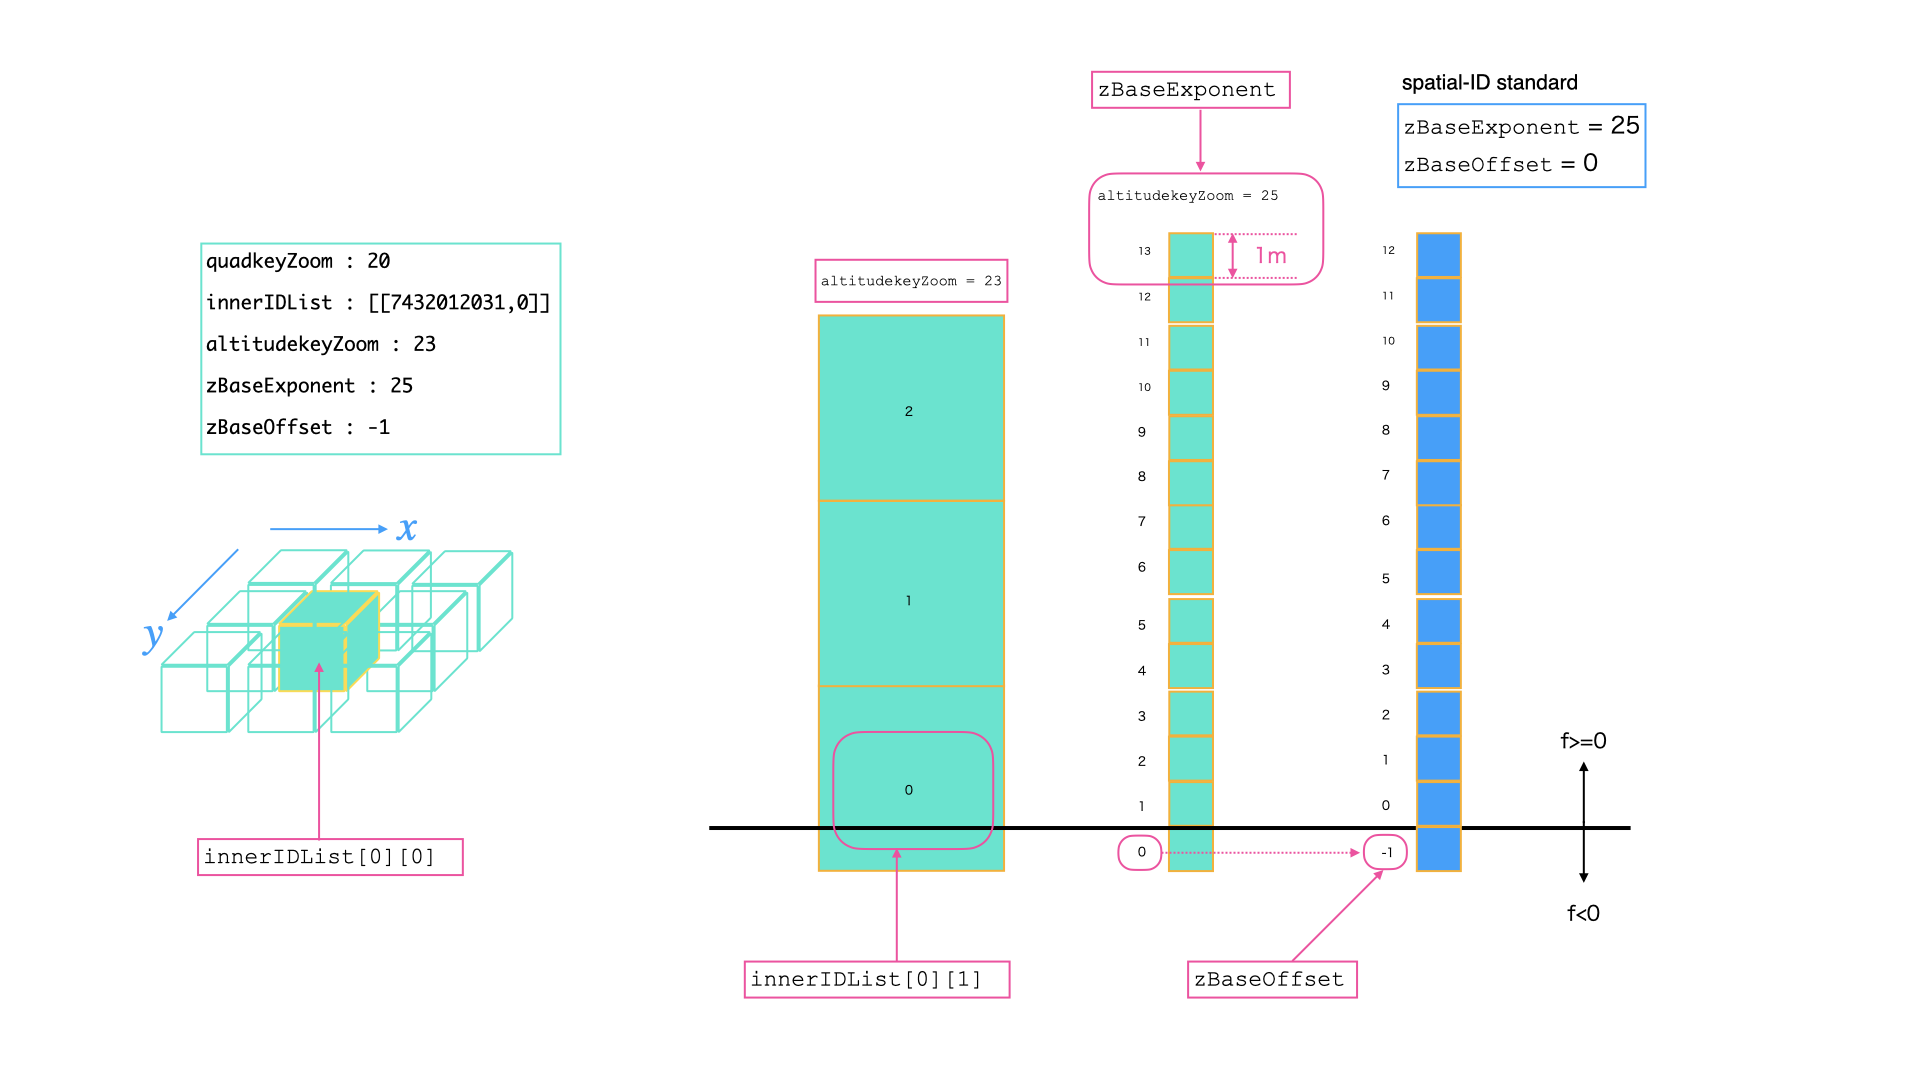
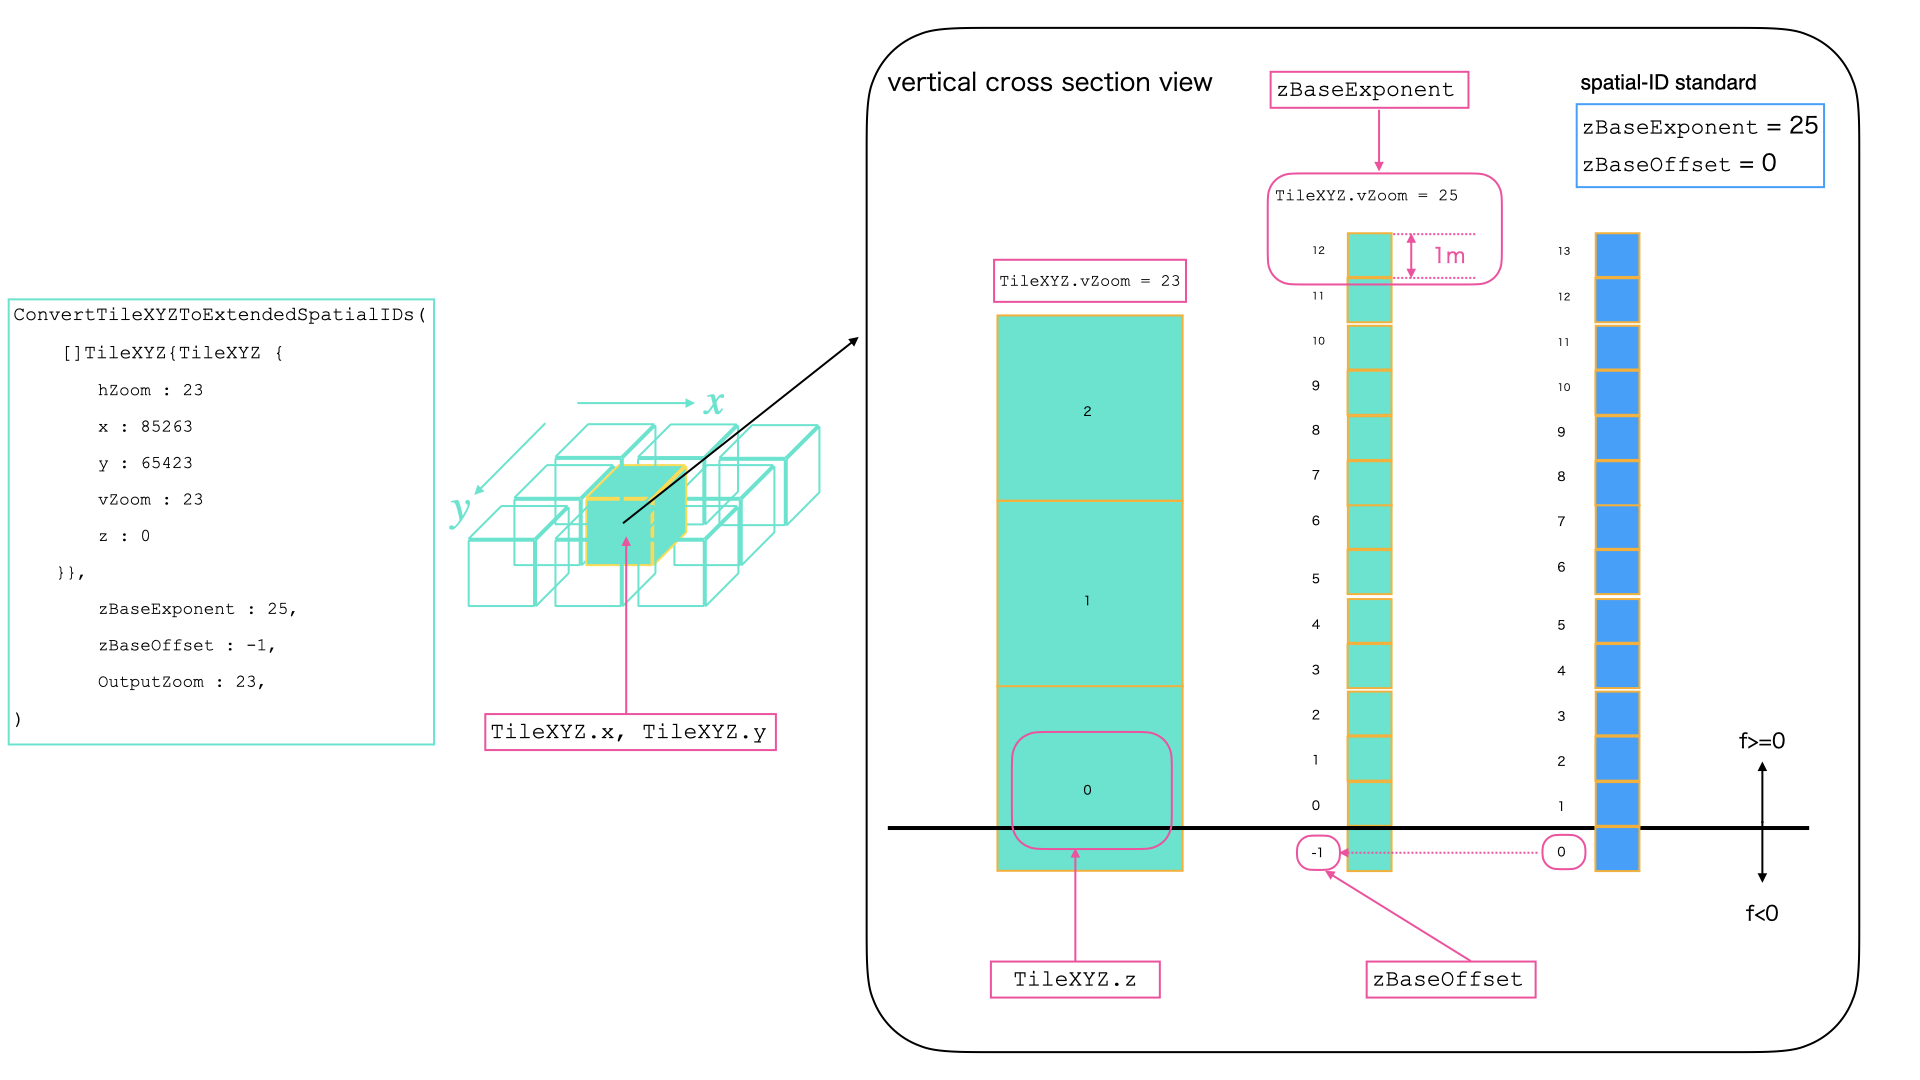
updated documentation of conversion functions
about updating `ConvertQuadkeysAndAltitudekeysToExtendedSpatialIDs` to `ConvertTileXYZToExtendedSpatialIDs`

diff --git a/transform/convert_quadkey_and_Vertical_id.go b/transform/convert_quadkey_and_Vertical_id.go
@@ -527,12 +527,12 @@ func ConvertExtendedSpatialIDToSpatialIDs(extendedSpatialID *object.ExtendedSpat
 //
 // TileXYZのx,yは同一の意味のまま拡張空間IDのX,Yに変換される。
 // このため出力の水平精度は入力のものが用いられる(ただし精度チェックは行われる)。
-// TileXYZのZから拡張空間ID垂直インデックス(f)へは高度変換が用いられ変化する。
+// TileXYZのzから拡張空間ID垂直インデックス(f)へは高度変換が用いられ変化する。
 // 引数 :
 //
 //	request : 変換対象のTileXYZ構造体のスライス
-//	zBaseExponent： zの高さが1mとなるズームレベル
-//	zBaseOffset： ズームレベルがzBaseExponentのとき高度0mにおけるvZoom
+//	zBaseExponent： TileXYZのzの高さが1mとなるズームレベル
+//	zBaseOffset： ズームレベルがzBaseExponentのとき高度0mにおけるTileXYZのz
 //	outputVZoom : 入力値が変換後の拡張空間IDの高さの精度となる。拡張空間IDの精度の閾値である 0 ～ 35 の整数値を指定可能。
 //
 // 戻り値 :

diff --git a/documentation/convesion.md b/documentation/convesion.md
@@ -4,42 +4,46 @@
 
 ## 変換関数一覧
 
-| 変換元         | 変換先         | 対応関数                                                   | 今後の変更予定など備考                                        |
-|-------------|-------------|--------------------------------------------------------|----------------------------------------------------|
-| 空間ID        | 拡張空間ID      | なし                                                     | `ConvertSpatialIDsToQuadkeysAndVerticalIDs`が部分的に行う |
-| 拡張空間ID      | 拡張空間ID      | なし                                                     | `ConvertQuadkeysAndVerticalIDsToSpatialIDs`が部分的に行う |
-| 拡張空間ID      | TileXYZ     | なし                                                     | `ConvertExtendedSpatialIDsToTileXYZ()`に実装予定        |
-| TileXYZ     | 拡張空間ID      | なし                                                     | `ConvertTileXYZToExtendedSpatialIDs()`に実装予定        |
-| 3Dtilekey   | 拡張空間ID      | `ConvertQuadkeysAndAltitudekeysToExtendedSpatialIDs()` | Pull Request#27のもの 廃止する                            |
-| 拡張空間ID      | 3Dtilekey   | `ConvertExtendedSpatialIDsToQuadkeysAndAltitudekeys()` | 廃止予定                                               |
-| 一次元インデックス   | 一次元変換インデックス | `ConvertZToAltitudekey()`                              | `TransformIndexCoordinate()`にリネーム予定                |
-| 一次元変換インデックス | 一次元インデックス   | `ConvertAltitudeKeyToZ()`                              | `InverseTransformIndexCoordinate()`にリネーム予定         |
-| Key         | 拡張空間ID      | `ConvertQuadkeysAndVerticalIDsToExtendedSpatialIDs()`  | 廃止予定                                               |
-| Key         | 空間ID        | `ConvertQuadkeysAndVerticalIDsToSpatialIDs()`          | 廃止予定                                               |
-| 空間ID        | Key         | `ConvertSpatialIDsToQuadkeysAndVerticalIDs()`          | 廃止予定                                               |
-| 拡張空間ID      | Key         | `ConvertExtendedSpatialIDsToQuadkeysAndVerticalIDs()`  | 廃止予定                                               |
+| 変換元         | 変換先         | 対応関数                                                   | 今後の変更予定など備考                                            |
+|-------------|-------------|--------------------------------------------------------|--------------------------------------------------------|
+| 空間ID        | 拡張空間ID      | なし                                                     | `ConvertSpatialIDsToQuadkeysAndVerticalIDs`が部分的に行う     |
+| 拡張空間ID      | 空間ID        | `ConvertExtendedSpatialIDToSpatialIDs`                 | `ConvertQuadkeysAndVerticalIDsToSpatialIDs`も部分的に行う     |
+| 拡張空間ID      | TileXYZ     | なし                                                     | `ConvertExtendedSpatialIDsToTileXYZ()`に実装予定            |
+| TileXYZ     | 拡張空間ID      | `ConvertTileXYZToExtendedSpatialIDs()`                 | 空間IDへの変換は`ConvertExtendedSpatialIDToSpatialIDs`と組み合わせる |
+| TileXYZ     | 空間ID        | `ConvertTileXYZToSpatialIDs()`                         | TileXYZ->拡張空間ID変換と拡張空間ID->空間ID変換の組み合わせ                 |
+| 3Dtilekey   | 拡張空間ID      | なし                                                     | Pull Request#27のもの 実装**しない**                           |
+| 拡張空間ID      | 3Dtilekey   | `ConvertExtendedSpatialIDsToQuadkeysAndAltitudekeys()` | 廃止予定                                                   |
+| 一次元インデックス   | 一次元変換インデックス | `ConvertZToAltitudekey()`                              | `TransformIndexCoordinate()`にリネーム予定                    |
+| 一次元変換インデックス | 一次元インデックス   | `ConvertAltitudeKeyToZ()`                              | `InverseTransformIndexCoordinate()`にリネーム予定             |
+| Key         | 拡張空間ID      | `ConvertQuadkeysAndVerticalIDsToExtendedSpatialIDs()`  | 廃止予定                                                   |
+| Key         | 空間ID        | `ConvertQuadkeysAndVerticalIDsToSpatialIDs()`          | 廃止予定                                                   |
+| 空間ID        | Key         | `ConvertSpatialIDsToQuadkeysAndVerticalIDs()`          | 廃止予定                                                   |
+| 拡張空間ID      | Key         | `ConvertExtendedSpatialIDsToQuadkeysAndVerticalIDs()`  | 廃止予定                                                   |
 
-## ConvertQuadkeysAndAltitudekeysToExtendedSpatialIDs
+## ConvertTileXYZToExtendedSpatialIDs
 
-Quadkey+AltitudeKey空間のボクセルを拡張空間IDに変換する
+TileXYZ空間のボクセルを拡張空間IDに変換する
 
-変換時、QuadKeyはx,yインデックスにデコードされるのみである  
-しかしAltitudeKeyは変換によって元の値に近い垂直方向拡張空間インデックスに変換される
+変換時、`TileXYZ.x`,`TileXYZ.y`は元の値が利用されるのみである  
+しかし`TileXYZ.z`は変換によって元の値に近い垂直方向拡張空間インデックスに変換される
 
-これはAltitudeKeyと拡張空間IDの間ではボクセルのインデックス付番や0番の位置の基準を変更されているためである
+これは`TileXYZ.z`と拡張空間ID垂直インデックスの間ではボクセルのインデックス付番や0番の位置の基準を変更されているためである
 
-この基準とデータをまとめて示すために 構造体`FromExtendedSpatialIDToQuadkeyAndAltitudekey`を入力として扱う
+この基準とデータを`ConvertTileXYZToExtendedSpatialIDs`の入力として扱う
 
 ```go
-[]FromExtendedSpatialIDToQuadkeyAndAltitudekey{
+[]TileXYZ{
     {
-        quadkeyZoom : 20
-        innerIDList : [[7432012031,0]] // [[quadkey, alatitudekey],...]
-        altitudekeyZoom : 23
-        zBaseExponent : 25
-        zBaseOffset : -1
+        hZoom: 20
+        x: 85263
+        y: 65423
+        vZoom: 23
+        z: 0
     }
-}
+},
+zBaseExponent 25,
+zBaseOffset 8,
+outputVZoom 23
 ```
 
 ここで構造体フィールドには次のような値を利用する(fig.1)
@@ -52,7 +56,7 @@ Quadkey+AltitudeKey空間のボクセルを拡張空間IDに変換する
     - ここでは高度キー0番のズームレベルを`zBaseExponent`で扱う
 
 ![fig.1](./image/tilekey-standard.png)
-<div style="text-align: center">fig1. FromExtendedSpatialIDToQuadkeyAndAltitudekeyで用いる値</div>
+<div style="text-align: center">fig1. ConvertTileXYZToExtendedSpatialIDs入力の高度基準</div>
 
 出力は拡張空間ID文字列になる  
 上記の入力は以下の文字列配列として出力される
@@ -73,67 +77,79 @@ Quadkey+AltitudeKey空間のボクセルを拡張空間IDに変換する
 
 ### 変換例
 
-#### 1. 入力altitudekeyが出力拡張空間ID垂直インデックスに対応する場合
+#### 1. 入力TileXYZのzが出力拡張空間ID垂直インデックスに対応する場合
 
-変換前
+入力
 
 ```
-[]FromExtendedSpatialIDToQuadkeyAndAltitudekey{
+[]TileXYZ{
     {
-        quadkeyZoom : 20
-        innerIDList : [[7432012031,0]]
-        altitudekeyZoom : 23
-        zBaseExponent : 25
-        zBaseOffset : 8
+        hZoom : 20
+        x: 85263
+        y: 65423
+        vZoom: 23
+        z: 0
     }
-}
+},
+zBaseExponent: 25,
+zBaseOffset: 8,
+outputVZoom: 23
 ```
 
-変換後
+出力
 
 ```
 extendedSpatialIDs :["20/85263/65423/23/-2"]
 ```
 
-#### 2. altitudekeyZoomが25より大きい場合
+#### 2. vZoomが25より大きい場合
 
-変換前
+入力
 
 ```
-[]FromExtendedSpatialIDToQuadkeyAndAltitudekey{
+[]TileXYZ{
     {
-        quadkeyZoom : 20
-        innerIDList : [[7432012031,3]]
-        altitudekeyZoom : 26
-        zBaseExponent : 25
-        zBaseOffset : -2
+        hZoom : 20
+        x: 85263
+        y: 65423
+        vZoom: 26
+        z: 3
     }
-}
+},
+zBaseExponent: 25,
+zBaseOffset: -2,
+outputVZoom: 26
+
 ```
 
-変換後
+出力
 
-extendedSpatialIDs :["20/85263/65423/26/7", "20/85263/65423/26/7]
+```
+extendedSpatialIDs: ["20/85263/65423/26/7", "20/85263/65423/26/7]
+```
 
 #### 3. zBaseOffsetが2のべき乗でない場合
 
-変換前
+入力
 
 ```
-[]FromExtendedSpatialIDToQuadkeyAndAltitudekey{
+[]TileXYZ{
     {
-        quadkeyZoom : 20
-        innerIDList : [[7432012031,0]]
-        altitudekeyZoom : 23
-        zBaseExponent : 25
-        zBaseOffset : 7
+        hZoom : 20
+        x: 85263
+        y: 65423
+        vZoom: 23
+        z: 0
     }
-}
+},
+zBaseExponent: 25,
+zBaseOffset: 7,
+outputVZoom: 23
 ```
 
-変換後
+出力
 
 ```
-extendedSpatialIDs :["20/85263/65423/23/-2", "20/85263/65423/23/-1"]
+extendedSpatialIDs: ["20/85263/65423/23/-2", "20/85263/65423/23/-1"]
 ```
 
